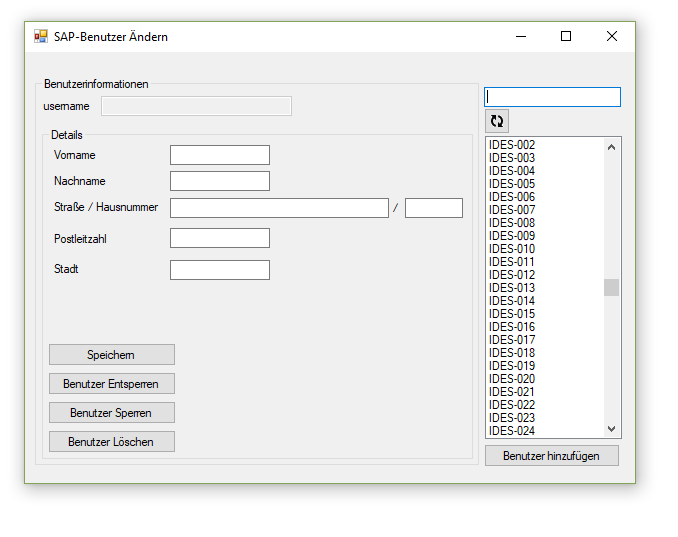
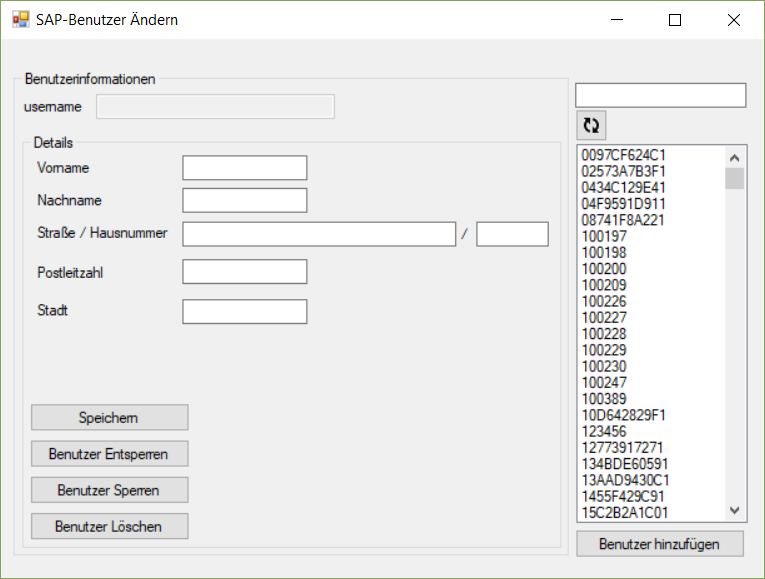
bilder erstellt

Changed region(s): [[0.0, 0.0, 1.0, 1.0], [0.2168, 0.4171, 0.5885, 0.5661], [0.4027, 0.1788, 0.4336, 0.2086]]

diff --git a/Dokumentation/Funktionen.tex b/Dokumentation/Funktionen.tex
@@ -2,16 +2,48 @@
 
 \subsection{Vorhandene User anzeigen}
 
-Startet man das Programm wird gleich die Hauptmaske angezeigt. Auf dieser werden alle Operationen außer das Erstellen von Benutzern ausgeführt. Zum Start des Programmes werden alle vorhandenen Benutzer automatisch geladen. Dies ist auf der Grafik \ zu sehen. 
+Startet man das Programm wird gleich die Hauptmaske angezeigt. Auf dieser werden alle Operationen außer das Erstellen von Benutzern ausgeführt. 
+Zum Start des Programmes werden alle vorhandenen Benutzer automatisch geladen. Dies ist auf der Grafik \ref{fig:main} zu sehen. Im rechten Teil der Maske exisitert eine ListBox, welche alle vorhandenen User anzeigt. 
+Möchte man nach bestimmten Usern selektieren, ist durch das Textfeld über der Liste eine abfrage möglich. Hier spielt Groß- und Kleinschreibung keine Rolle. 
+Durch Return (Enter) bestätigt man die eingabe, und es werden nur noch User angezeigt, die auf die Eingabe zutreffen. Will man seine Selektierung rückgängig machen, muss man die Eingabe in das Suchfeld löschen und danach wied er mit Return bestätigen.
+Ein Beispiel für das Suchen von Usern ist in Abbildung \ref{fig:user_anzeigen} zu sehen, angezeigt.
+
+\subsubsection{Fehlerbehandlung}
+
+Der einzige Fehler, welcher beim Laden der User auftreten kann, ist dass keine Verbindung zum SAP-System besteht. Ist dies der Fall, wird eine entsprechende Fehlermeldung wie in Abbildung \ref{fig:keine_verbindung} zu sehen.
 
 \begin{figure}[h]
-	\includegraphics[width=\textwidth]{images/Main.png}
+	\begin{center}
+		\includegraphics[width=\textwidth]{images/Main.png}
+	\end{center}
 	\caption{Hauptmaske}
+	\label{fig:main}
+\end{figure}
+
+\begin{figure}[h]
+	\begin{center}
+		\includegraphics[]{images/Keine_Verbindung.png}
+	\end{center}
+	\caption{Fehler beim Verbinden zum SAP-System}
+	\label{fig:keine_verbindung}
 \end{figure}
 
 \subsection{User-Details anzeigen}
 
+Klickt man in der ListBox auf einen User, so werden Details zu diesem geladen. In diesem Programm werden sein Vorname, der Nachname sowie die Anschrift geladen. 
+Technisch ist noch vieles Weiteres möglich, was in dieser Arbeit allerdings nicht behandelt wird. Zu sehen ist dies in \ref{fig:user_anzeigen}. 
+
+\begin{figure}[h]
+	\begin{center}
+		\includegraphics[width=\textwidth]{images/User_Anzeigen.png}
+	\end{center}
+	\caption{Userdetails anzeigen}
+	\label{fig:user_anzeigen}
+\end{figure}
+
 \subsection{User erstellen}
+
+
 
 \subsection{User editieren}
 

diff --git a/Dokumentation/main.tex b/Dokumentation/main.tex
@@ -10,6 +10,7 @@
 	\pagenumbering{gobble}
 	
 	\newpage
+
 	\pagenumbering{roman}
 	\tableofcontents
 	
